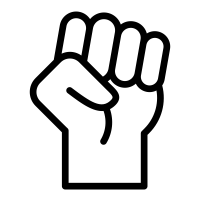
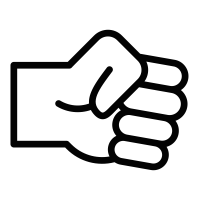
create impact type show page

Changed region(s): [[0.03, 0.03, 0.96, 0.96]]

diff --git a/app/assets/stylesheets/application.scss b/app/assets/stylesheets/application.scss
@@ -15,12 +15,31 @@
   margin: 1%;
 }
 
+.centered_header.center{
+  text-align: center;
+}
+
 .centered_header.small{
   font-size: 3.5vh;
 }
 
+.centered_header.italics{
+  font-size: 2.5vh;
+  font-style: italic;
+}
+
+.centered_header.medium{
+  font-size: 4.5vh;
+}
+
 .centered_header.small.center{
   text-align: center;
+}
+
+.centered_header.tops{
+  margin-bottom: 3%;
+  margin-left: 6%;
+  width: 30%;
 }
 
 
@@ -179,19 +198,26 @@ color: gray;
   color: white;
 }
 
-#impact_show_icon{
-  width: 80%;
+#impact_type_header{
+  width: 100%;
 }
 
 #impact_sidebar{
-  width: 25%;
+  width: 30%;
   display: inline-block;
+}
+
+#impact_show_icon{
+  width: 60%;
+  margin-left: 20%;
+  margin-top: 2%; 
 }
 
 #impacts_container{
   position: absolute;
   width: 70%;
   display: inline-block;
+  margin-top: 5%;
 }
 // body{
 //   font-family: sans-serif;
@@ -317,6 +343,10 @@ text-align: center;
   padding-right: 10%;
 }
 
+.impact_bubble_text.left_padded{
+  padding-left: 12%;
+}
+
 
 .impact_package{
   vertical-align: middle;
@@ -329,6 +359,10 @@ text-align: center;
 
 .impact_package.large{
   width: 100%;
+}
+
+.impact_package.large.fill{
+  margin-left: 0%;
 }
 
 #article_choices{

diff --git a/app/models/impact.rb b/app/models/impact.rb
@@ -10,5 +10,14 @@ class Impact < ApplicationRecord
     Impact.where("name like ?", "%#{term}%")
   end
 
+  def publication
+    self.user.publication
+  end
+
+  def self.current_publication
+    #this method may fail because I created the publication method. 
+    Impact.all.where(publication: current_user.publication)
+  end
+
 
 end

diff --git a/app/controllers/impact_types_controller.rb b/app/controllers/impact_types_controller.rb
@@ -5,6 +5,9 @@ class ImpactTypesController < ApplicationController
   end
 
   def show
+    @impact_type = ImpactType.find(params[:id])
+    @num_impacts = @impact_type.impacts.length
+    
 
   end
 
